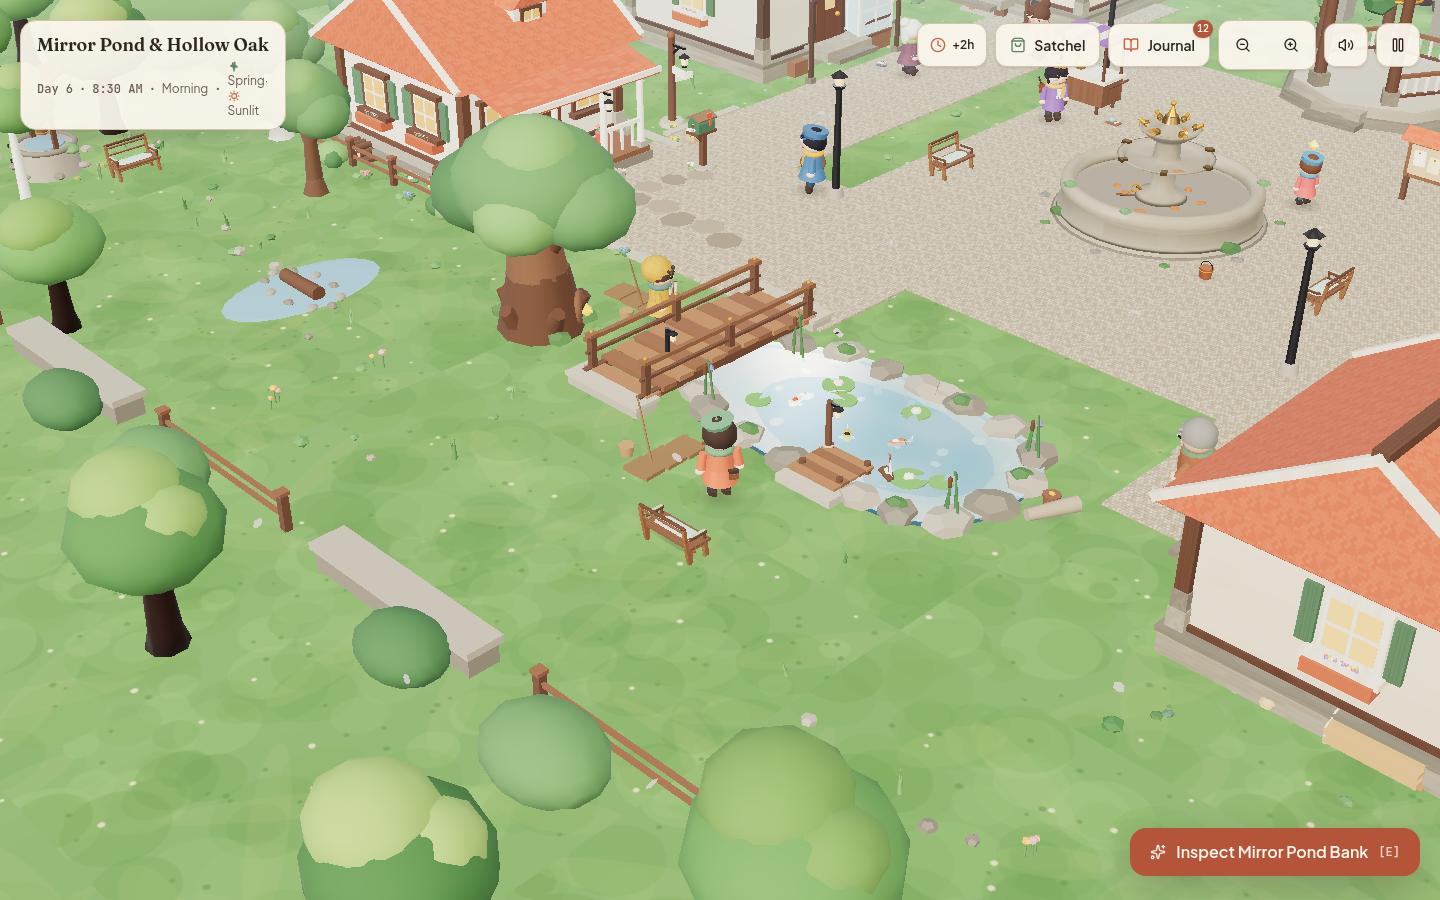
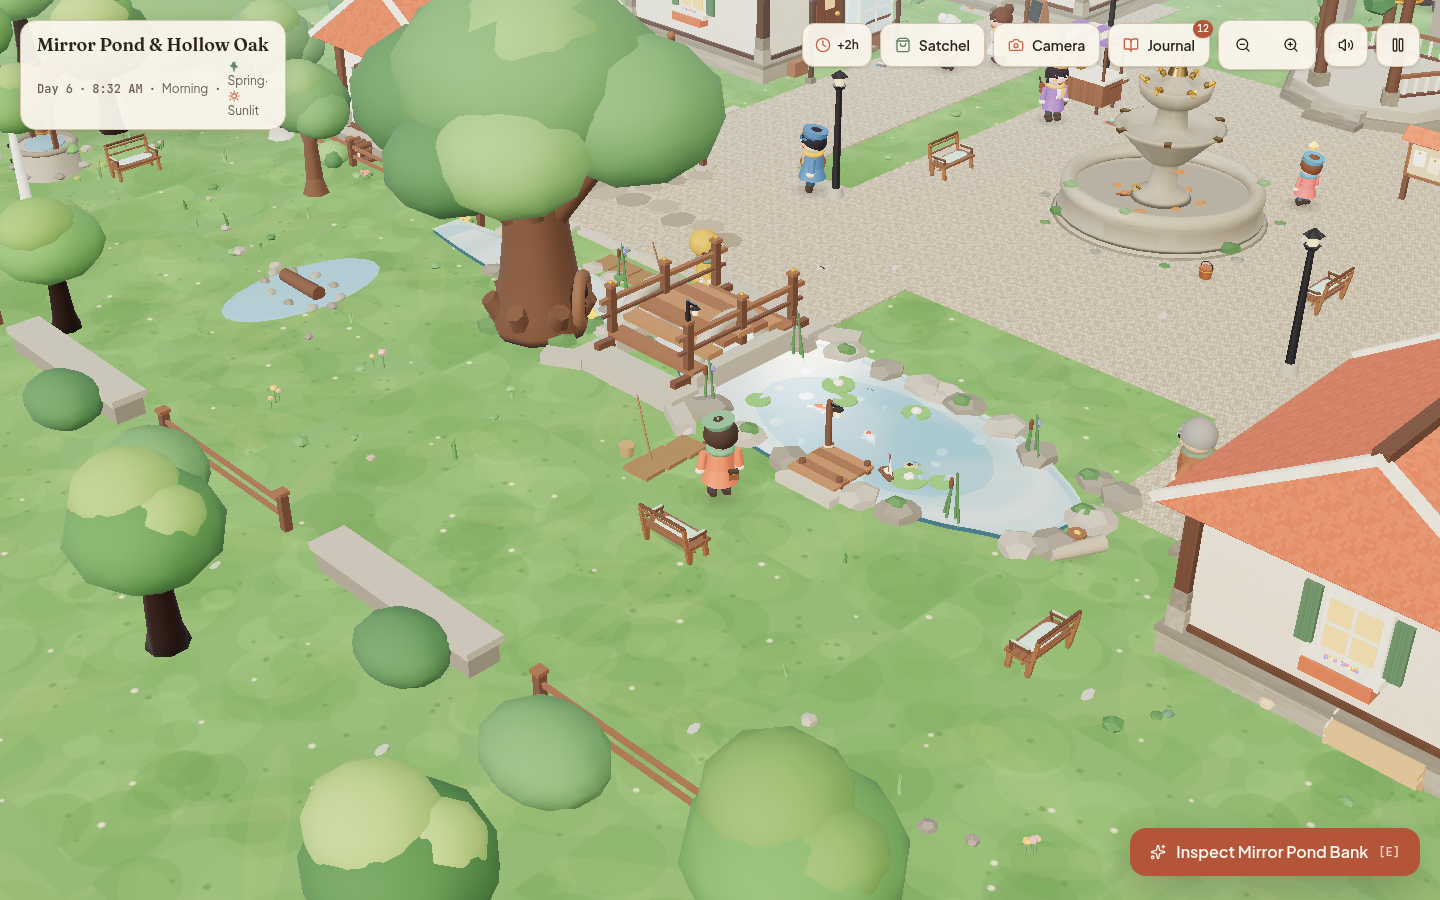
fix(scene): post-merge reconciliation — photography anchor lockstep + brook QA re-capture
- PHOTO-18 join: west_brook_bank photo subject follows the relocated fishing
  spot (worldMap row is the authority); suite back to green.
- scripts/qa_brook_v11.sh: north-bank rig view + tap projection moved to
  (-5.5, 12.35) for the redesigned watershed; path fixed to stage3-ws.
- download/asset-qa/stage3-brook/ re-captured on the merged world (4 shots);
  live cast verified: tap -> prose card -> '+1 Silver Dace'.
- WORKLOG/HANDOVER integration entries (997/997, tsc clean, build green).

diff --git a/src/game/photography.ts b/src/game/photography.ts
@@ -184,8 +184,10 @@ export const PHOTO_SUBJECTS: readonly PhotoSubjectDef[] = [
     id: 'west_brook_bank',
     name: 'West Brook Bank',
     category: 'water',
-    anchorX: -4.45,
-    anchorZ: 13.9,
+    // Slice W1 lockstep: follows the relocated fishing stand on the stream's
+    // north bank (worldMap PROP_INTERACTABLES row is the authority).
+    anchorX: -5.5,
+    anchorZ: 12.35,
     frameRadius: 12,
     memoryTitle: 'The Brook at the Culvert',
     memorySummary:

diff --git a/WORKLOG.md b/WORKLOG.md
@@ -1497,3 +1497,27 @@ Chronological log of design decisions, implementation milestones, verification r
 - **Roadmap:** reconciled — Fishing & Photography marked IMPLEMENTED; Community
   activities IMPLEMENTED (keepsake display complete); next milestone =
   Gardening expansion (highest readiness, most underrepresented pillar).
+
+## Stage 3 integration (2026-11-25): main (PR #37) merged into the spatial workstream
+
+- **Merge 0dbec54**: integrated origin/main 4893d56 (PR #37 — fishing v1.1 cherry-pick
+  lineage, photography, keepsake shelf) into `stage3/fishing-v11-west-brook`. The two
+  fishing v1.1 implementations shared the df3e7f1 lineage (cherry-pick), so the code
+  union was small; the real reconciliation was GEOMETRIC: PR #37's `west_brook_bank`
+  spot/rig/anchor/test expectations were pinned to the pre-redesign culvert-mouth lane
+  (-4.45, 13.9) which the redesign turned into the running brook. Resolved in favor of
+  the redesigned watershed — spot/rig/worldMap/nav mirror stay at the north bank
+  (-5.5, 12.35) as one lockstep edit.
+- **New lockstep join discovered by the merge**: PHOTO-18 pins photography subject
+  anchors to worldMap rows — `west_brook_bank` photo subject moved with the fishing
+  spot (photography.ts), a join PR #37 could not have known about.
+- **Gates at the merge commit**: **997/997** tests, tsc clean, build green.
+  Bank-stand contracts re-probed post-merge: walkable @ r 0.48, A* reachable,
+  water edge 0.95u (interactRadius 2.4), oak-trunk clearance 1.97u beyond r 1.35+0.48.
+- **Stale evidence re-captured**: `download/asset-qa/stage3-brook/` (4 shots) showed the
+  pre-redesign culvert-mouth bank; re-captured on the merged world via the updated
+  `scripts/qa_brook_v11.sh` (north-bank rig view + tap projection moved to (-5.5, 12.35)).
+  Live cast verification passed on the merged build: tap → prose card open →
+  "West Brook Bank / +1 Silver Dace" (spot registry, once-per-day gate and catch table
+  intact after the geometry reconciliation). Jetty regression shot re-confirmed the v1
+  rig unmoved.

diff --git a/HANDOVER.md b/HANDOVER.md
@@ -392,7 +392,11 @@ All core simulation, cottage home-life, personal inventory/gifting, dialogue, re
   ("Mirror Po…") is pre-existing UI behavior. (3) SW meadow orphan path slabs are
   pre-existing dressing.
 - **Gates**: 946/946 tests, tsc clean, build green at the branch HEAD; evidence in
-  `download/asset-qa/stage3-spatial/`; record in doc 05.
+  `download/asset-qa/stage3-spatial/`; record in doc 05. Post-integration (main PR #37
+  merged in, commit 0dbec54): **997/997**, tsc clean, build green; the `west_brook_bank`
+  PHOTOGRAPHY subject moved with the relocated fishing spot (PHOTO-18 lockstep join);
+  `download/asset-qa/stage3-brook/` re-captured on the merged world — live cast
+  verified at the north-bank stand ("+1 Silver Dace").
 
 ---
 
